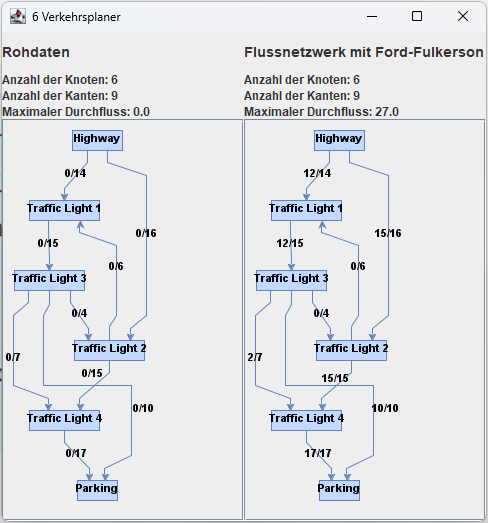
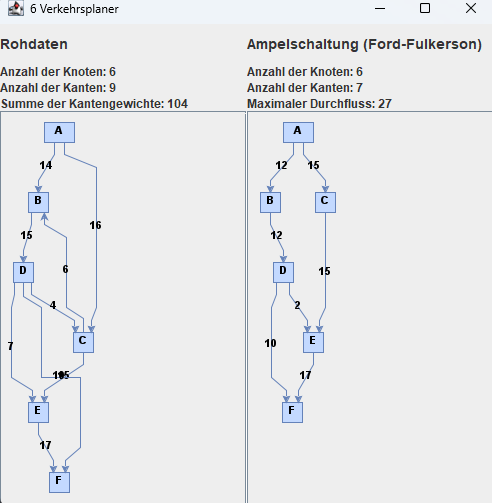
Added Problem 6

diff --git a/code/Problem6.java b/code/Problem6.java
@@ -1,0 +1,150 @@
+package code;
+
+import java.awt.Dimension;
+import java.awt.GridLayout;
+import java.io.FileNotFoundException;
+import java.io.IOException;
+import java.util.LinkedList;
+
+import code.utils.AdjazenzMatrix;
+import code.utils.BasicWindow;
+import code.utils.FileHandler;
+import code.utils.JGraphPanel;
+
+public class Problem6 extends BasicWindow {
+
+  private int max_flow = 0;
+  private int num_vertices = 0;
+
+  public Problem6(String title) throws FileNotFoundException, IOException {
+    super(title);
+
+    // layout settings
+    setSize(new Dimension(510, 520));
+    setLayout(new GridLayout(1, 2));
+    setLocationRelativeTo(null);
+
+    // Initializiere FileHandler und lese die Daten aus der Datei
+    FileHandler fh = new FileHandler("problem6.txt");
+
+    // Erstelle die Adjazenzmatrix und gebe sie in der Konsole aus
+    AdjazenzMatrix am_input = new AdjazenzMatrix("Input", fh.getMatrix(), fh.getVertexLetters(), true);
+    am_input.printMatrix();
+
+    // Erstelle die Ausgabe-Adjazenzmatrix mit dem Prim Algorithmus
+    int[][] matrix_output = fordFulkerson(am_input.getMatrixCopy());
+
+    // Filtere die inversen Kanten
+    for (int i = 0; i < matrix_output.length; i++)
+      for (int j = 0; j < matrix_output[i].length; j++)
+        if (matrix_output[i][j] < 0)
+          matrix_output[i][j] = 0;
+
+    // Erstelle die Ausgabe-Adjazenzmatrix, gebe sie in der Konsole aus und schreibe
+    // sie in eine Datei
+    AdjazenzMatrix am_output = new AdjazenzMatrix("Output", matrix_output, fh.getVertexLetters(), true);
+    am_output.printAndWriteMatrix(title);
+
+    // Setze den Maximalfluss
+    am_output.setMaxFlow(max_flow);
+
+    // Erstelle die Graphen und füge sie dem Fenster hinzu
+    JGraphPanel p1 = new JGraphPanel("Rohdaten", am_input, "hierarchical");
+    JGraphPanel p2 = new JGraphPanel("Ampelschaltung (Ford-Fulkerson)", am_output,
+        "hierarchical");
+
+    add(p1);
+    add(p2);
+  }
+
+  // function to find the path with the maximum flow
+  public int[][] fordFulkerson(int[][] matrix) {
+
+    // number of vertices in graph
+    num_vertices = matrix[0].length;
+
+    // source is the first vertex
+    int s = 0;
+    // the sink is always the last vertex
+    int t = num_vertices - 1;
+
+    int u, v;
+
+    // copy the graph to rGraph for out
+    int rGraph[][] = new int[num_vertices][num_vertices];
+    for (u = 0; u < num_vertices; u++)
+      for (v = 0; v < num_vertices; v++)
+        rGraph[u][v] = matrix[u][v];
+
+    // This array is filled by BFS and to store path
+    int parent[] = new int[num_vertices];
+
+    // There is no flow initially
+    max_flow = 0;
+
+    // add possible path to the flow
+    while (bfs(matrix, rGraph, s, t, parent)) {
+
+      // find max flow through the possible paths
+      int path_flow = Integer.MAX_VALUE;
+      for (u = t; u != s; u = parent[u]) {
+        v = parent[u];
+        path_flow = Math.min(path_flow, rGraph[v][u]);
+      }
+
+      // update the edges
+      for (u = t; u != s; u = parent[u]) {
+        v = parent[u];
+        rGraph[v][u] -= path_flow; // remove path flow from rGraph
+        rGraph[u][v] += path_flow; // add back path flow to rGraph
+      }
+
+      // Add path flow to max flow
+      max_flow += path_flow;
+    }
+
+    int[][] outputGraph = new int[num_vertices][num_vertices];
+    for (int i = 0; i < matrix[0].length; i++)
+      for (int j = 0; j < matrix[0].length; j++)
+        outputGraph[i][j] = matrix[i][j] - rGraph[i][j];
+
+    return outputGraph;
+  }
+
+  private boolean bfs(int[][] matrix, int rGraph[][], int s, int t, int parent[]) {
+
+    // int[][] matrix = am_input.getMatrix();
+    num_vertices = matrix[0].length;
+
+    // array that mark all vertices as not visited
+    boolean visited[] = new boolean[num_vertices];
+    for (int i = 0; i < num_vertices; ++i)
+      visited[i] = false;
+
+    // add start vertex and mark as visited
+    LinkedList<Integer> queue = new LinkedList<Integer>();
+    queue.add(s);
+    visited[s] = true;
+    parent[s] = -1;
+
+    // standard bfs loop
+    while (queue.size() != 0) {
+      int u = queue.poll();
+      // System.out.print(u + " "); //bfs vertices
+
+      for (int v = 0; v < num_vertices; v++) {
+        if (visited[v] == false && rGraph[u][v] > 0) {
+          // If we find a path from s to t we return true
+          if (v == t) {
+            parent[v] = u;
+            return true;
+          }
+          queue.add(v);
+          parent[v] = u;
+          visited[v] = true;
+        }
+      }
+    }
+    return false;
+  }
+}

diff --git a/code/Main.java b/code/Main.java
@@ -78,7 +78,7 @@ public class Main extends JFrame {
           // new Problem5(label);
           break;
         case 6:
-          // new Problem6(label);
+          new Problem6(label);
           break;
         case 7:
           // new Problem7(label);
